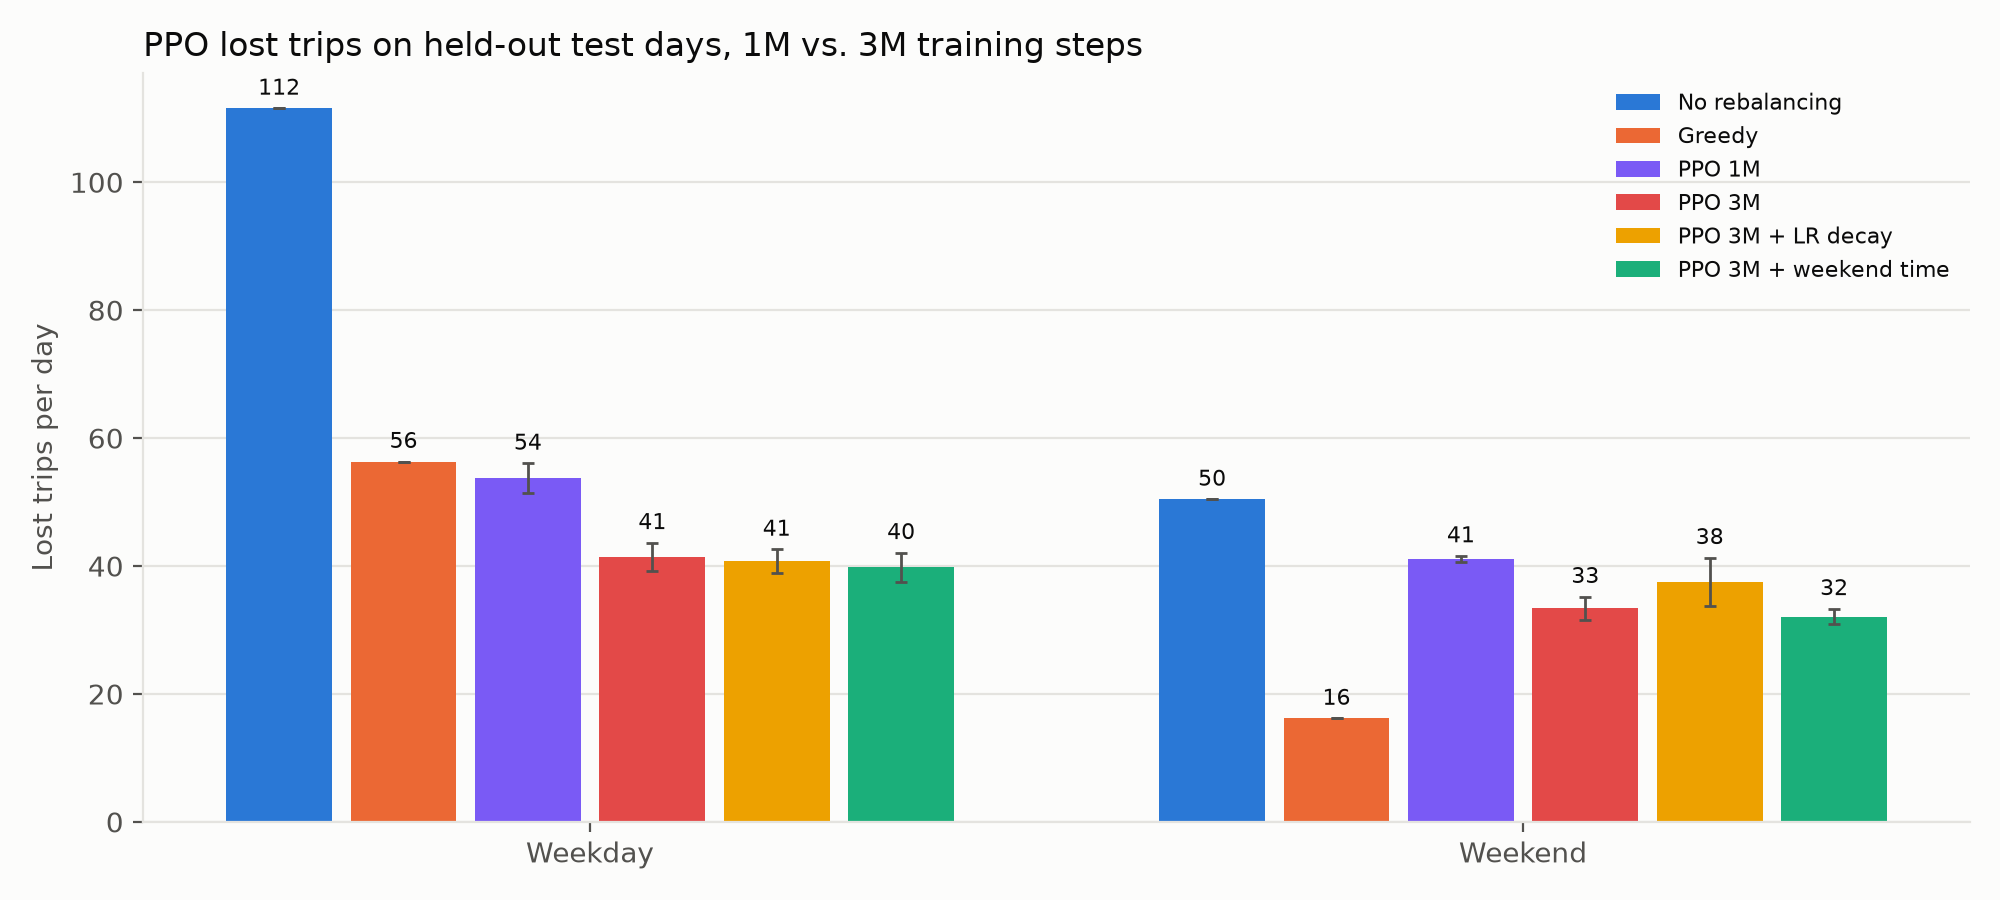
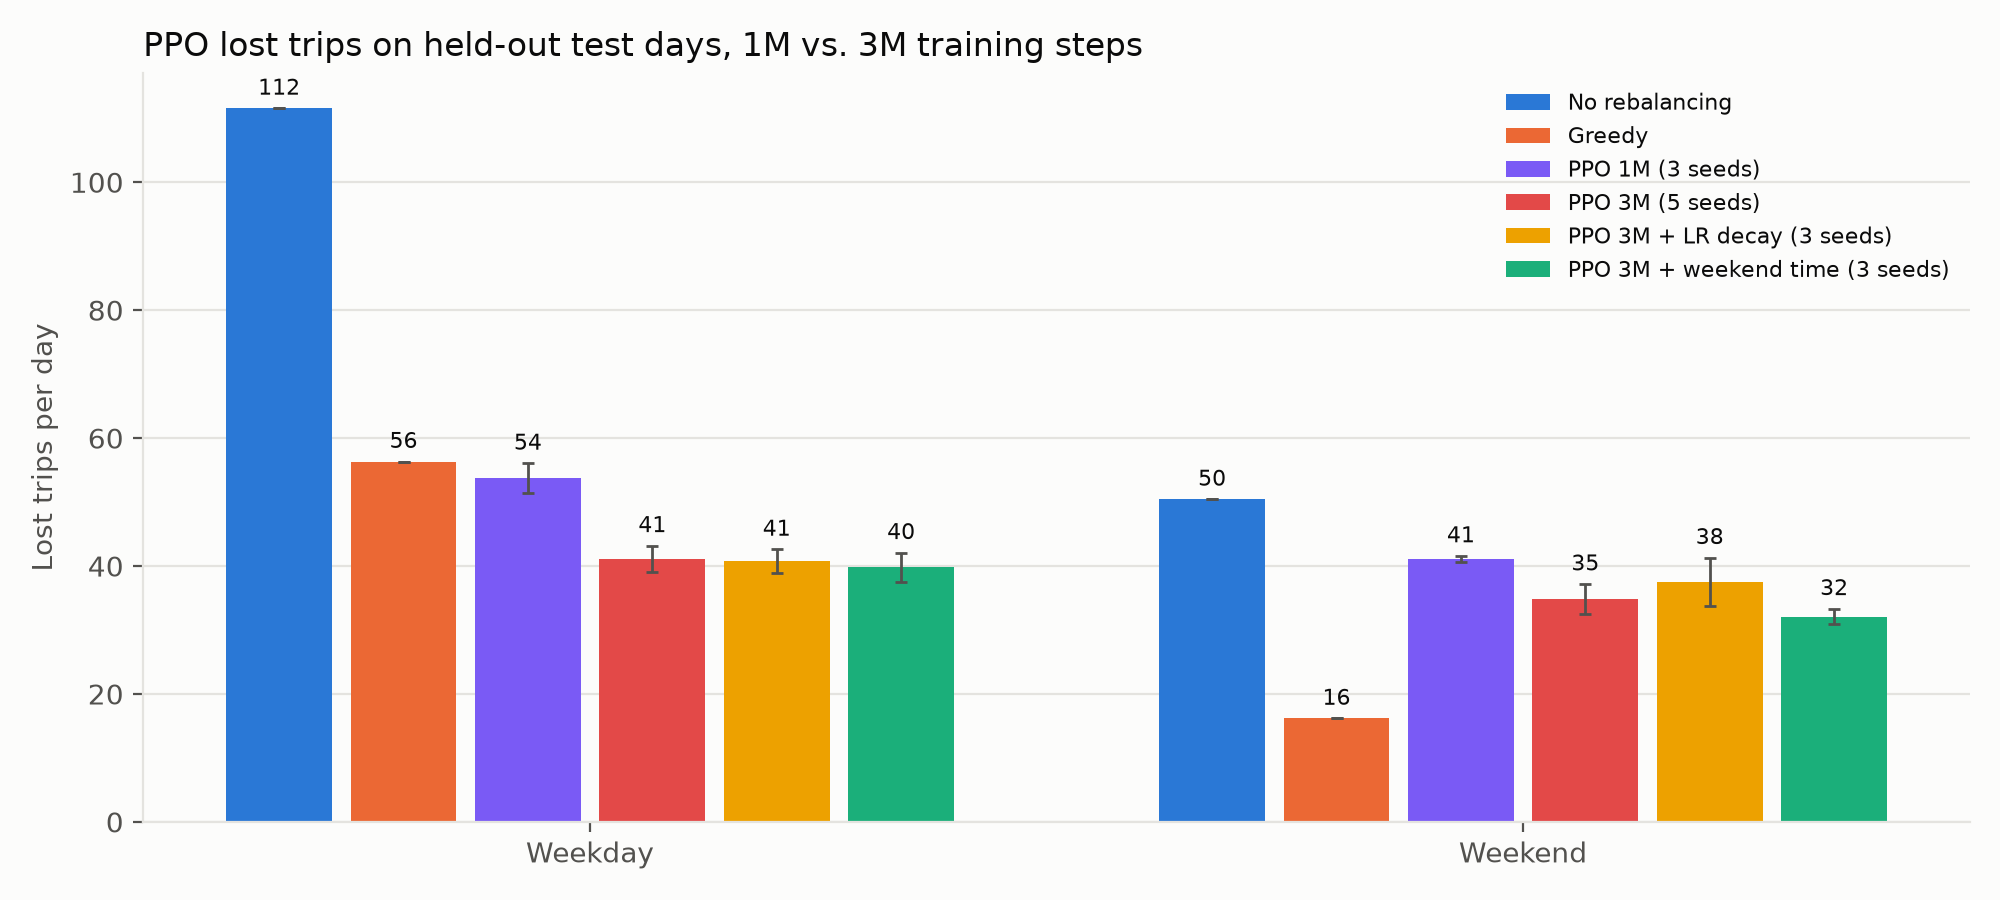
updated ppo 3M figures to 5 seeds

Changed region(s): [[0.744, 0.0933, 0.992, 0.3111], [0.775, 0.6222, 0.837, 0.6844], [0.31, 0.56, 0.341, 0.6222]]

diff --git a/plot_ppo.py b/plot_ppo.py
@@ -7,10 +7,12 @@ import pandas as pd
 
 from baselines import evaluate, greedy, no_rebalance
 from bike_rebalance_env import BikeRebalanceEnv
-from plot_results import BLUES, COLORS, FIGURES, INK, MUTED, SURFACE, daily_reward, style, summary
+from plot_results import BLUES, COLORS, FIGURES, GRID, INK, MUTED, SURFACE, daily_reward, style, summary
 from train_ppo import RESULTS, run_name
 
 SEEDS = [0, 1, 2]
+# the headline PPO 3M run has 5 seeds to match DQN's headline, every other variant has 3
+VARIANT_SEEDS = {"PPO 3M": [0, 1, 2, 3, 4]}
 # 1M-step variants, run_name keyword arguments
 VARIANTS = {
     "PPO": {"balance_weekends": False, "ent_coef": 0.01},
@@ -25,6 +27,10 @@ LONG_VARIANTS = {
 }
 # observation ablation, compared against the 1M "PPO" run
 ABLATION = {"PPO, raw obs": {"balance_weekends": False, "ent_coef": 0.01, "raw_obs": True},}
+# distance-penalty sweep on the PPO 3M config, 3 seeds at every penalty (similar to DQN's sweep)
+DISTANCE_PENALTIES = [0, 0.1, 0.3, 1]
+SWEEP = {f"penalty {dp:g}": {"balance_weekends": False, "ent_coef": 0.01, "timesteps": 3_000_000, "distance_penalty": dp}
+         for dp in DISTANCE_PENALTIES}
 
 COLORS = {**COLORS, "PPO": "#7a5af5", "PPO + weekend balancing": "#00a3b8", "PPO, no entropy bonus": "#9e5b2a",
           "PPO 1M": "#7a5af5", "PPO, normalized obs": "#7a5af5", "PPO, raw obs": "#e87ba4",
@@ -41,13 +47,15 @@ DIAGNOSTICS = {
 def load_runs(variants):
     runs = {}
     for label, kwargs in variants.items():
-        names = [run_name(seed = s, **kwargs) for s in SEEDS]
+        seeds = VARIANT_SEEDS.get(label, SEEDS)
+        names = [run_name(seed = s, **kwargs) for s in seeds]
         if not all((RESULTS / f"{n}_test.npz").exists() for n in names):
             print(f"skipping {label}: missing runs")
             continue
         tests = [np.load(RESULTS / f"{n}_test.npz") for n in names]
         runs[label] = {
             "kwargs": kwargs,
+            "seeds": seeds,
             "rows": [t["rows"] for t in tests],
             "heat": np.mean([t["heat"] for t in tests], axis = 0),
             "monitors": [pd.read_csv(RESULTS / f"{n}.monitor.csv", skiprows = 1) for n in names],
@@ -60,20 +68,36 @@ def mean_std(curves):
     return np.mean(curves, axis = 0), np.std(curves, axis = 0)
 
 
-def learning_curves(runs, baselines_train, max_steps = 1_000_000, path = "ppo_learning_curve.png",
+def seed_labels(runs):
+    # when runs in one figure have different seed counts, put the count in each label instead of the title
+    counts = {len(run["seeds"]) for run in runs.values()}
+    if len(counts) == 1:
+        return {label: label for label in runs}, f"{counts.pop()} seeds"
+    labels = {label: f"{label} ({len(run['seeds'])} seeds)" for label, run in runs.items()}
+    COLORS.update({labels[label]: COLORS[label] for label in runs})
+    return labels, "seeds per label"
+
+
+def learning_curves(runs, base_train_rows, max_steps = 1_000_000, path = "ppo_learning_curve.png",
                     title = "PPO variants on training days"):
+    # baseline reward lines use the same distance penalty the plotted runs were trained with
+    penalties = {run["kwargs"].get("distance_penalty", 0.1) for run in runs.values()}
+    if len(penalties) > 1:
+        raise ValueError(f"{path}: runs trained with different distance penalties {penalties} share one reward axis")
+    penalty = penalties.pop()
     grid = np.linspace(20_000, max_steps, 200)
     fig, ax = plt.subplots(figsize = (8, 4.5), facecolor = SURFACE)
     style(ax)
-    for name, value in baselines_train.items():
-        ax.axhline(value, color = COLORS[name], linewidth = 2, linestyle = "--", label = name)
+    for name, rows in base_train_rows.items():
+        ax.axhline(daily_reward(rows, distance_penalty = penalty), color = COLORS[name], linewidth = 2, linestyle = "--", label = name)
+    labels, seeds_text = seed_labels(runs)
     for label, run in runs.items():
         # weekend-balanced runs train on an easier day mix, so their reward isn't comparable to the baselines here
         if run["kwargs"]["balance_weekends"]:
             continue
         mean, std = mean_std([np.interp(grid, m.l.cumsum(), m.r.rolling(200, min_periods = 50).mean())
                               for m in run["monitors"]])
-        ax.plot(grid, mean, color = COLORS[label], linewidth = 2, label = label)
+        ax.plot(grid, mean, color = COLORS[label], linewidth = 2, label = labels[label])
         ax.fill_between(grid, mean - std, mean + std, color = COLORS[label], alpha = 0.15, linewidth = 0)
     if max_steps >= 2_000_000:
         ax.xaxis.set_major_formatter(matplotlib.ticker.FuncFormatter(lambda v, _: f"{v / 1e6:g}M"))
@@ -82,7 +106,7 @@ def learning_curves(runs, baselines_train, max_steps = 1_000_000, path = "ppo_le
         ax.xaxis.set_major_formatter(matplotlib.ticker.FuncFormatter(lambda v, _: f"{v / 1000:.0f}k"))
     ax.set_xlabel("Training timesteps", color = MUTED)
     ax.set_ylabel("Episode reward (200-episode mean)", color = MUTED)
-    ax.set_title(f"{title} (mean ± std, {len(SEEDS)} seeds)", color = INK, loc = "left")
+    ax.set_title(f"{title} (mean ± std, {seeds_text})", color = INK, loc = "left")
     ax.legend(frameon = False, labelcolor = INK, fontsize = 8, loc = "lower right")
     fig.tight_layout()
     fig.savefig(FIGURES / path, dpi = 200)
@@ -146,6 +170,28 @@ def heatmaps(panels, station_ids, weekdays, path = "ppo_lost_trips_heatmap.png",
     fig.savefig(FIGURES / path, dpi = 200, bbox_inches = "tight")
 
 
+def distance_tradeoff(sweep, base_table):
+    fig, ax = plt.subplots(figsize = (7, 4.5), facecolor = SURFACE)
+    style(ax)
+    ax.xaxis.grid(True, color = GRID, linewidth = 0.8)
+    stats = [summary(run["rows"]) for run in sweep.values()]
+    km, lost = [s["km"][0] for s in stats], [s["lost"][0] for s in stats]
+    ax.errorbar(km, lost, xerr = [s["km"][1] for s in stats], yerr = [s["lost"][1] for s in stats],
+                color = COLORS["PPO 3M"], linewidth = 2, marker = "o", markersize = 8, ecolor = MUTED, elinewidth = 1,
+                capsize = 2, label = f"PPO 3M ({len(SEEDS)} seeds)")
+    for label, x, y in zip(sweep, km, lost):
+        ax.annotate(label, (x, y), xytext = (8, 6), textcoords = "offset points", color = INK, fontsize = 8)
+    for base in ["No rebalancing", "Greedy"]:
+        ax.plot(base_table[base]["km"][0], base_table[base]["lost"][0], marker = "s", markersize = 9,
+                color = COLORS[base], linestyle = "none", label = base)
+    ax.set_xlabel("Van km per day", color = MUTED)
+    ax.set_ylabel("Lost trips per day", color = MUTED)
+    ax.set_title("PPO distance penalty: lost trips vs. driving (test days)", color = INK, loc = "left")
+    ax.legend(frameon = False, labelcolor = INK, fontsize = 8)
+    fig.tight_layout()
+    fig.savefig(FIGURES / "ppo_distance_penalty.png", dpi = 200)
+
+
 def print_table(table):
     fmt = lambda s: f"{s[0]:.1f} ± {s[1]:.1f}" if s[1] else f"{s[0]:.1f}"
     print("| Policy | Lost/day | Lost % | Weekday lost/day | Weekend lost/day | Van km/day |")
@@ -161,14 +207,14 @@ def main():
         raise SystemExit("no complete PPO runs in results/, run train_ppo.py first")
     baselines = {"No rebalancing": no_rebalance, "Greedy": greedy}
     base_test = {n: evaluate(p, return_heat = True) for n, p in baselines.items()}
-    baselines_train = {n: daily_reward(evaluate(p, split = "train")) for n, p in baselines.items()}
+    base_train_rows = {n: evaluate(p, split = "train") for n, p in baselines.items()}
     base_table = {n: summary([rows]) for n, (rows, _) in base_test.items()}
     env = BikeRebalanceEnv(split = "test")
 
     # 1M-step variants: ppo_learning_curve, ppo_training_diagnostics, ppo_test_lost_trips, ppo_lost_trips_heatmap
     if runs:
         table = {**base_table, **{n: summary(r["rows"]) for n, r in runs.items()}}
-        learning_curves(runs, baselines_train)
+        learning_curves(runs, base_train_rows)
         diagnostics(runs)
         lost_trips_bars(table)
         best = min(runs, key = lambda n: table[n]["lost"][0])
@@ -182,8 +228,10 @@ def main():
         table = {**base_table}
         if "PPO" in runs:
             table["PPO 1M"] = summary(runs["PPO"]["rows"])
-        table.update({n: summary(r["rows"]) for n, r in long_runs.items()})
-        learning_curves(long_runs, baselines_train, max_steps = 3_000_000, path = "ppo_3m_learning_curve.png",
+        labels, _ = seed_labels({**({"PPO 1M": runs["PPO"]} if "PPO" in runs else {}), **long_runs})
+        table = {labels.get(n, n): s for n, s in table.items()}
+        table.update({labels[n]: summary(r["rows"]) for n, r in long_runs.items()})
+        learning_curves(long_runs, base_train_rows, max_steps = 3_000_000, path = "ppo_3m_learning_curve.png",
                         title = "PPO trained to 3M steps")
         lost_trips_bars(table, path = "ppo_3m_test_lost_trips.png",
                         title = "PPO lost trips on held-out test days, 1M vs. 3M training steps", figsize = (10, 4.5))
@@ -191,7 +239,7 @@ def main():
             heatmaps({"No rebalancing": base_test["No rebalancing"][1], "Greedy": base_test["Greedy"][1],
                       "PPO 3M": long_runs["PPO 3M"]["heat"]}, env.station_ids, env.weekdays,
                      path = "ppo_3m_lost_trips_heatmap.png",
-                     title = "Where and when trips are lost under PPO 3M (weekday test days)")
+                     title = f"Where and when trips are lost under PPO 3M (weekday test days, mean of {len(long_runs['PPO 3M']['seeds'])} seeds)")
         print("\n3M-step PPO variants")
         print_table(table)
 
@@ -206,6 +254,13 @@ def main():
                         groups = (("All days", "lost"), ("Weekday", "weekday"), ("Weekend", "weekend")))
         print("\nObservation ablation (1M steps)")
         print_table(table)
+
+    # distance-penalty sweep: ppo_distance_penalty
+    sweep = load_runs(SWEEP)
+    if len(sweep) == len(SWEEP):
+        distance_tradeoff(sweep, base_table)
+        print("\nDistance-penalty sweep (PPO 3M)")
+        print_table({**base_table, **{n: summary(r["rows"]) for n, r in sweep.items()}})
 
 
 if __name__ == "__main__":

diff --git a/compare_ppo.py b/compare_ppo.py
@@ -11,17 +11,22 @@ from plot_results import summary
 from train_ppo import CHECKPOINT_EVERY, RESULTS, ppo_policy, run_name
 
 SEEDS = [0, 1, 2]
+# the headline PPO 3M run has 5 seeds to match DQN's headline, every other variant has 3
+VARIANT_SEEDS = {"PPO 3M": [0, 1, 2, 3, 4]}
 VARIANTS = {
     "PPO 1M": {},
     "PPO 1M, raw obs": {"raw_obs": True},
     "PPO 3M": {"timesteps": 3_000_000},
     "PPO 3M + LR decay": {"timesteps": 3_000_000, "lr_decay": True},
     "PPO 3M + weekend time": {"timesteps": 3_000_000, "weekend_time": True},
+    "PPO 3M, distance penalty 0": {"timesteps": 3_000_000, "distance_penalty": 0},
+    "PPO 3M, distance penalty 0.3": {"timesteps": 3_000_000, "distance_penalty": 0.3},
+    "PPO 3M, distance penalty 1": {"timesteps": 3_000_000, "distance_penalty": 1},
 }
 
 
-def names(kwargs):
-    return [run_name(False, 0.01, s, **kwargs) for s in SEEDS]
+def names(label, kwargs):
+    return [run_name(False, 0.01, s, **kwargs) for s in VARIANT_SEEDS.get(label, SEEDS)]
 
 
 def fmt(s):
@@ -57,14 +62,14 @@ def convergence(label, kwargs):
     raw, wtime = kwargs.get("raw_obs", False), kwargs.get("weekend_time", False)
     for end in range(CHECKPOINT_EVERY, kwargs["timesteps"] + 1, CHECKPOINT_EVERY):
         rows = []
-        for name in names(kwargs):
+        for name in names(label, kwargs):
             if end == kwargs["timesteps"]:
                 rows.append(np.load(RESULTS / f"{name}_test.npz")["rows"])
             else:
                 model = PPO.load(RESULTS / f"{name}_ckpt" / f"ppo_{end}_steps", device = "cpu")
                 rows.append(evaluate(ppo_policy(model, raw, wtime)))
         s = summary(rows)
-        stats = np.array([window_stats(name, end) for name in names(kwargs)])
+        stats = np.array([window_stats(name, end) for name in names(label, kwargs)])
         mean, std = stats.mean(axis = 0), stats.std(axis = 0)
         print(f"| {end / 1e6:g}M | {fmt(s['lost'])} | {fmt(s['weekday'])} | {fmt(s['weekend'])}"
               f" | {mean[0]:.1f} ± {std[0]:.1f} | {mean[1]:.4f} ± {std[1]:.4f} | {mean[2]:.3f} ± {std[2]:.3f} |")
@@ -73,8 +78,8 @@ def convergence(label, kwargs):
 def main():
     runs = {}
     for label, kwargs in VARIANTS.items():
-        if all((RESULTS / f"{n}_test.npz").exists() for n in names(kwargs)):
-            runs[label] = [np.load(RESULTS / f"{n}_test.npz")["rows"] for n in names(kwargs)]
+        if all((RESULTS / f"{n}_test.npz").exists() for n in names(label, kwargs)):
+            runs[label] = [np.load(RESULTS / f"{n}_test.npz")["rows"] for n in names(label, kwargs)]
         else:
             print(f"skipping {label}: missing runs")
     results_table(runs)
